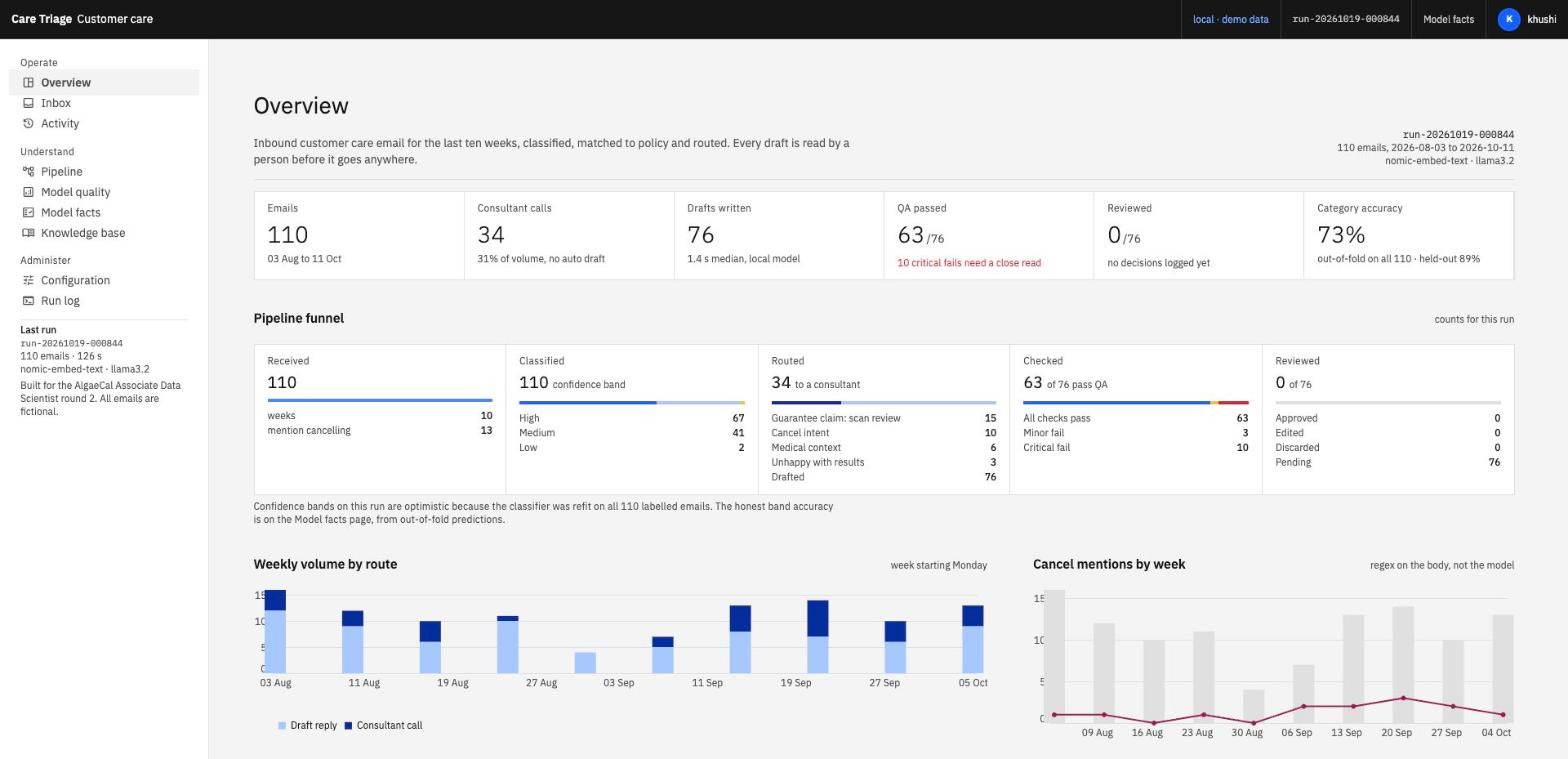
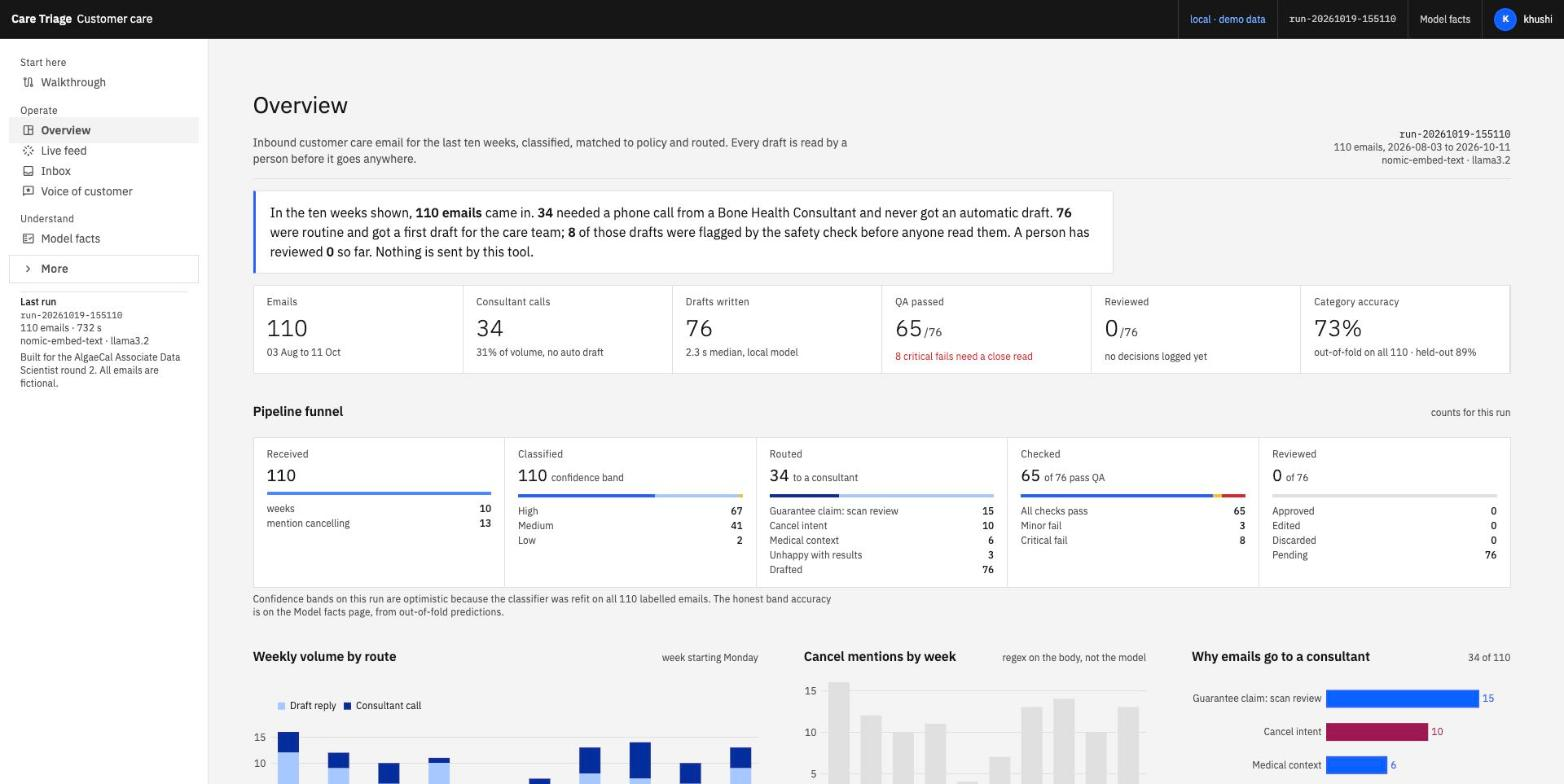
README: refresh the Overview, Walkthrough and Voice of customer screenshots

diff --git a/README.md b/README.md
@@ -150,7 +150,7 @@ There is also a small FastAPI service (`app/api.py`) over the same code, with `/
 
 No logo or trademark is used anywhere.
 
-| Walkthrough, stop 1 | Walkthrough, stop 2 running live |
+| Walkthrough, stop 1, the pile arriving and sorted live | Walkthrough, stop 2, one email through every step |
 |---|---|
 | ![Walkthrough](dashboard-walkthrough.jpg) | ![Walkthrough live](dashboard-walkthrough-live.jpg) |
 | Voice of customer | Live feed, each item run by the real pipeline as it lands |
